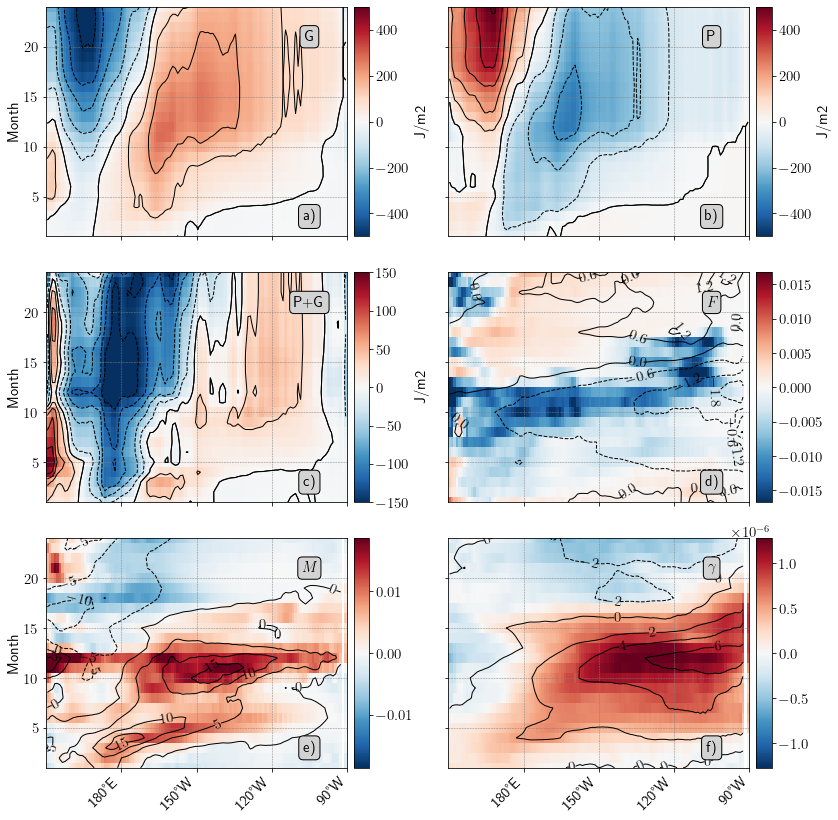
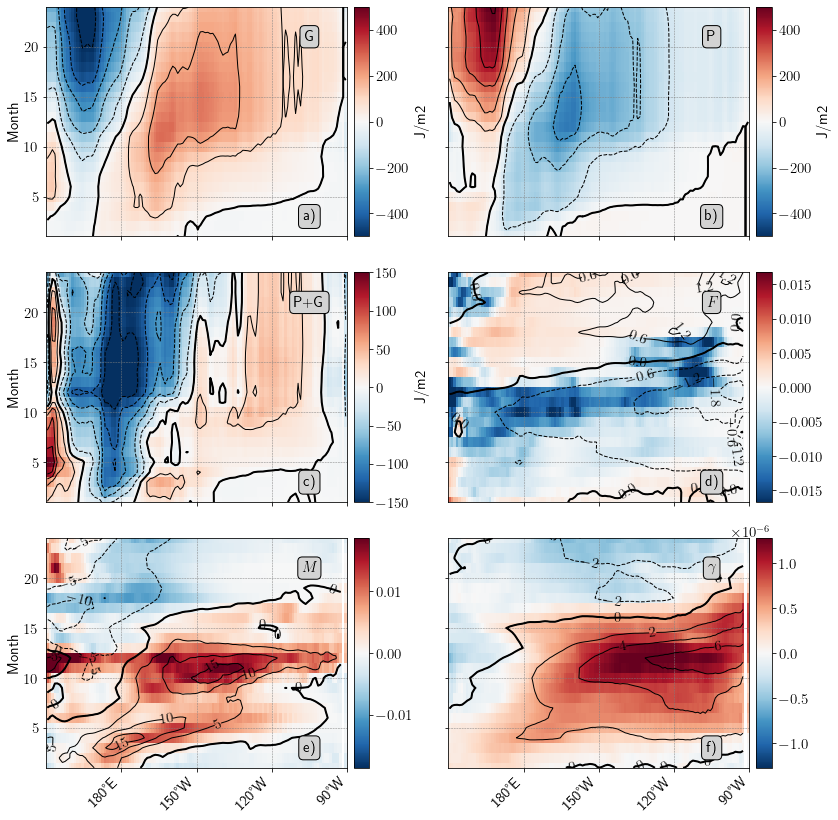
Update figure

diff --git a/texfiles/model_val.tex b/texfiles/model_val.tex
@@ -15,7 +15,7 @@ As a first evaluation of the simulated sea-surfate temperature, the simulated ON
 
 As a second evaluation, the spatial structure of simulated sea-surface temperature response to ENSO is compared with the one obtained with the Hadley Sea-Surface Temperature dataset\footnote{\url{https://www.metoffice.gov.uk/hadobs/hadisst/data/download.html}} (HadISST1, \citealt{raynerGlobalAnalysesSea2003}). HadISST1 uses reduced space optimal interpolation applied to SSTs from the Marine Data Bank (mainly ship tracks) and ICOADS through 1981 and a blend of in-situ and adjusted satellite-derived SSTs for 1982-onwards. The resulting dataset is provided as monthly sea-surface temperature maps on a $1\times 1$ regular grid. The covariances obtained with the HadISST1 anomalies and the simulated ones are shown in Fig.\ref{fig:nemo-had-sst}b and Fig.\ref{fig:nemo-had-sst}c.
 
-\begin{figure}[htp]
+\begin{figure}[h!tp]
 	\centering
 	\includegraphics[scale=0.6]{figs/fig1.png}
 	\caption{Observed and simulated ONI indexes (a). Covariance between the ONI index and the Hadley (b) and simulated SST anomalies (c). Observed and simulated sea-level anomalies averaged over the Nino34 region (d). Covariances between the ONI index and the observed (e) and simulated (f) sea-level anomalies. The dashed box represents the Nino34 region used in the averaging.}
@@ -38,7 +38,7 @@ Covariance maps between the surface chlorophyll and the monthly ONI index, compu
 
 The observed and simulated chlorophyll anomalies, averaged along the equatorial band, have a correlation coefficient of $0.80$ (significant at the $95\%$ level of significance).
 
-\begin{figure}[htp]
+\begin{figure}[h!tp]
 	\centering
 	\includegraphics[scale=0.4]{figs/fig2.png}
 	\caption{Simulated (black) and observed (yellow) equatorial chlorophyll anomalies (a). Filtered anomalies are shown for the model in panel (b). Covariance between the observed and simulated chlorophyll anomalies with the ONI (c, d) and filtered TPI (e) index. The dashed box represents the equatorial region used in the averaging.}
@@ -51,11 +51,13 @@ Before analysing the mechanisms of fish biomass response to El Nino variability,
 
 Figure \ref{fig:apecosm_validation}a shows the Hovmoller diagram of the observed catches and fish biomass (log-scale) integrated between 10N and 10S for the 2008-2018 period. Although observed and model results cannot be directly compared, some features are well captured by the model. For instance, the easternmost $4.00$ simulated contour seems to closely follow the eastward extensions of catches that occur in 2010, 2012 and 2016. Figure \ref{fig:apecosm_validation}b shows, for a longer period (1985-2018), the longitudinal position of the catch and biomass barycenters. The observed barycenter shows an eastward trend, liley due to the increased power of fishing fleets, which allow them to navigate over greater distances from their fishing ports, mostly located in the western Pacific (\warn{ref}). This emphasizes the fact that the data used in this validation are catch data, which are not only dependent on fish biomass but also depend on fishing effort, and as such must be used with caution for the comparison with simulated fish biomass. Figures \ref{fig:apecosm_validation}c and \ref{fig:apecosm_validation}d show the difference between catch and simulated biomass composites for El Nino (2009-10/2010-03, 2014-10/2015-03, 2015-10/2016-03) and La Nina conditions (2007-10/2008-03, 2008-10/2009-03, 2010-10/2011-03, 2011-10/2012-03). Observed catches increase in the central and eastern Pacific and decrease in the Western Pacific when switching from La Nina to El Nino conditions, which is consistent with an eastward displacement of the fish biomass. Simulated composite also shows an increase in the central Pacific and a decrease in the west, although the pattern seems westward shifted compared with the catch composite. 
 
-\begin{figure}[htp]
+\begin{figure}[h!tp]
 	\centering
 	\includegraphics[scale=0.35]{figs/plot_validation_apecosm.png}
 	\caption{Hovmoller diagram of observed catches (colors) and simulated fish biomass (contours) integrated between 10N and 10S (a, log-scale) and associated barycenters (b). Catch (c) and simulated fish-biomass (d) difference between El Nino and La Nina composites.}
 	\label{fig:apecosm_validation}
 \end{figure}
 
-In the following, the results for three size classes, 3cm, representing small fishes, 20cm, representing intermediate sizes, and 90 cm, representing large individuals, will be detailed. The latter are representative of the sizes of tuna target species within the region (\warn{REF}). \\
+In the following, the results for three size classes, 3cm, representing small fishes, 20cm, representing intermediate sizes, and 90 cm, representing large individuals, will be detailed. The latter are representative of the sizes of tuna target species within the region (\warn{REF}).
+
+\clearpage

diff --git a/scripts/new-97/plot_hov_diagrams_l_3cm.py b/scripts/new-97/plot_hov_diagrams_l_3cm.py
@@ -101,7 +101,7 @@ def plot(ax, toplot, wstep, contour=True, levels=None, clim=None, trend=True):
     cs.set_clim(cmin, cmax)
     if contour:
         cl = ax.contour(lon, time, toplot, levels=levels, colors='k', linewidths=1)
-        cl2 = ax.contour(lon, time, toplot, levels=0, linewidths=1, colors='k')
+        cl2 = ax.contour(lon, time, toplot, levels=0, linewidths=2, colors='k')
     stride = 3
     ax.xaxis.set_major_formatter(formatter0)
     ax.grid(True, linewidth=0.5, color='gray', linestyle='--')
@@ -214,6 +214,7 @@ cb = plt.colorbar(cs, cax=axgr.cbar_axes[cpt])
 ax.text(lon2, time2, '$F$', **textprop)
 cb.set_label('')
 cl = ax.contour(lon[:], time + 1, plk[:, :], 6, **cprop)
+cl2 = ax.contour(lon[:], time + 1, plk[:, :], levels=[0], linewidths=2, colors=cprop['colors'])
 ax.text(lon1, time1, letters[cpt], **textprop)
 plt.clabel(cl)
 
@@ -226,6 +227,7 @@ ax.text(lon2, time2, '$M$', **textprop)
 cb.set_label('')
 toplot = (oope * wstep).sel(l=20, method='nearest').values
 cl = ax.contour(lon[:], time + 1, toplot[:, :], 6, **cprop)
+cl2 = ax.contour(lon[:], time + 1, toplot[:, :], levels=[0], linewidths=2, colors=cprop['colors'])
 ax.text(lon1, time1, letters[cpt], **textprop)
 plt.clabel(cl)
 
@@ -238,8 +240,17 @@ ax.text(lon2, time2, '$\gamma$', **textprop)
 ax.text(lon1, time1, letters[cpt], **textprop)
 cb.set_label('')
 cl = ax.contour(lon[:], time + 1, thetao[:, :], 6, **cprop)
+cl2 = ax.contour(lon[:], time + 1, thetao[:, :], levels=[0], linewidths=2, colors=cprop['colors'])
 plt.clabel(cl)
 
 plt.savefig('hov_compo_l_%d.png' %l0, bbox_inches='tight')
 # -
+toplot = (zdiff + mdiff + zadv + madv).sel(l=l0, method='nearest').cumsum(dim='time').values
+ax = plt.axes()
+cs, cl = plot(ax, toplot, wstep_l0, clim=None)
+cb = plt.colorbar(cs)
+ax.text(lon2, time2, 'G', **textprop)
+cb.set_label('J/m2')
+ax.text(lon1, time1, letters[cpt], **textprop)
+
 

diff --git a/article-enso.tex b/article-enso.tex
@@ -57,7 +57,6 @@ fish \sep biomass \sep ENSO \sep \nino \sep \nina \sep modelling
 \input{texfiles/model_val}
 \input{texfiles/nino97}
 \input{texfiles/decadal}
-%\input{texfiles/discussions}
 
 \section*{Acknowledgement}
 
